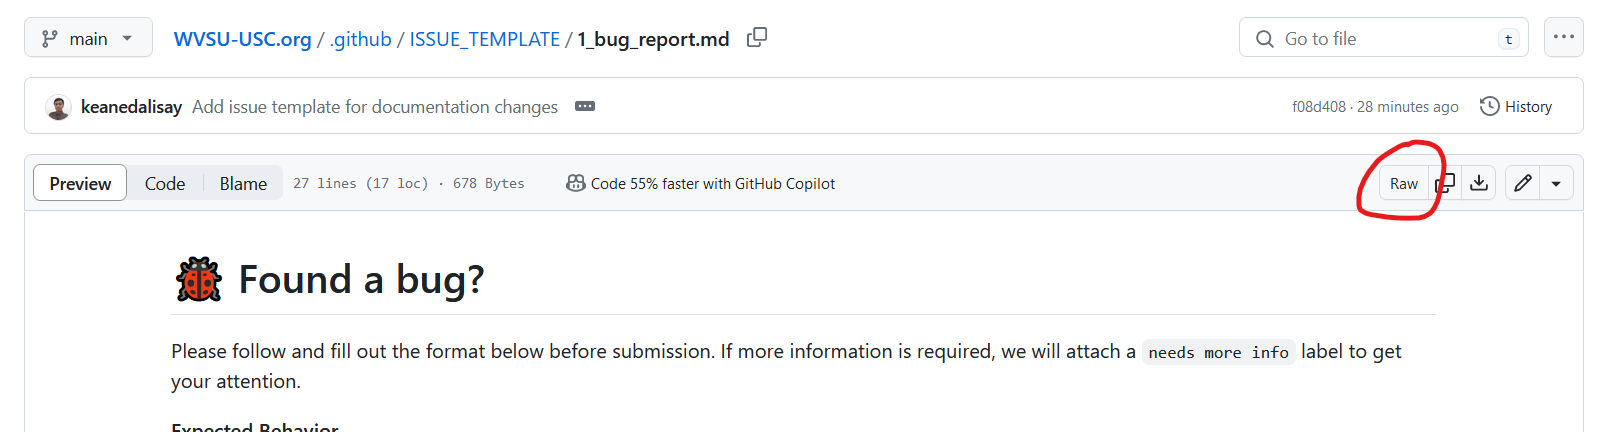
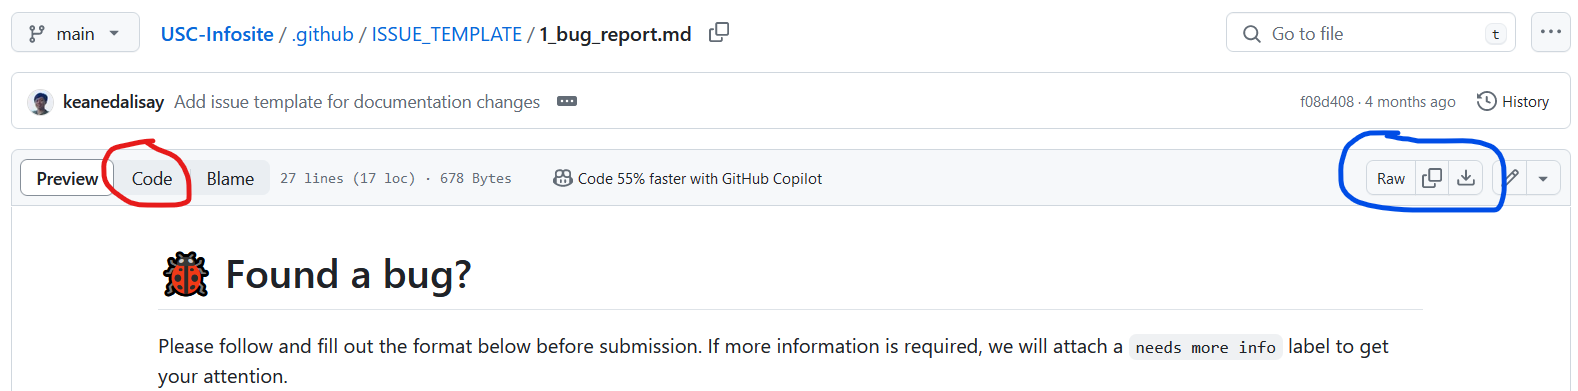
Add another option to view the raw issue template

diff --git a/how_to_create_an_issue.md b/how_to_create_an_issue.md
@@ -9,7 +9,7 @@ In this guide, we will go over the process of including templates for your issue
 
 1. If templates exist, open one of them when creating a new issue. ![When creating a new issue, issue templates will be displayed as links to their corresponding template.](assets/how_to_create_an_issue/open_issue_templates.png)
 
-2. When the template has loaded, click the button with the text `Raw` to display its raw content. ![When the template has loaded, click the button with the text `Raw` to display its raw content.](assets/how_to_create_an_issue/issue_template.png)
+2. When the template has loaded, click the button with the text `Code` (encircled in red) to display the raw template. Alternatively, you can download the file instead (encircled with blue). ![The 'Code' button in desktop's is located on the left side of the screen, next to the 'Preview' button.](assets/how_to_create_an_issue/issue_template.png)
 
 3. Copy the raw content of the template. ![The raw content of the template will display as normal text. Copy the text.](assets/how_to_create_an_issue/raw_issue_template.png)
 
